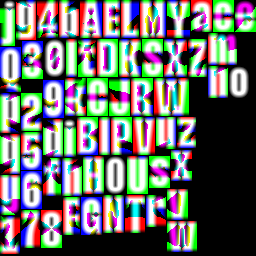
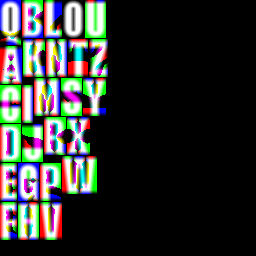
TextToMesh - MDSFont font rendered

diff --git a/utils/canvas.js b/utils/canvas.js
@@ -1,21 +1,9 @@
 import { gsap } from "gsap";
 import * as THREE from 'three';
-// import {THREE} from 'three';
+
 import { TextGeometry } from 'three/addons/geometries/TextGeometry.js';
 import { FontLoader } from 'three/addons/loaders/FontLoader.js';
 import { uniforms, MSDFTextGeometry, MSDFTextMaterial } from "three-msdf-text-utils";
-
-// import { FontLoader } from 'three/examples/jsm/loaders/FontLoader.js';
-// import {loadFont} from 'load-bmfont';
-
-// import { createGeometry } from 'three-bmfont-text';
-
-// import { createTextGeometry } from 'three-bmfont-text-es';
-// import * as loadFont from "load-bmfont";
-
-// import font from './font/helvetiker_regular.typeface.json';
-// import font from './font/PPFormula-CondensedBlack.json';
-// import fontTexture from './font/PPFormula-CondensedBlack.png';
 
 import Scroll from './scroll.js';
 
@@ -38,11 +26,8 @@ import example1Vertex from './shaders/example1Vertex.glsl';
 import example2Fragment from './shaders/example2Fragment.glsl';
 import example2Vertex from './shaders/example2Vertex.glsl';
 
-import MSDFfragment from './shaders/MSDFfragment.glsl';
-import MSDFvertex from './shaders/MSDFvertex.glsl';
-
-import { aniInExample } from "~/utils/animations";
-// import {uniforms} from "three-msdf-text-utils";
+import MSDFfragment from './shaders/MSDFfragment_test.glsl';
+import MSDFvertex from './shaders/MSDFvertex_test.glsl';
 
 const CanvasOptions = {
     scroll: {
@@ -254,18 +239,9 @@ let Canvas = {
 
     async addTextAsMSDF(_shader, _id, _htmlEl, _text){
 
-        console.log("_shader, _meshId, _htmlEl" , _shader, _id, _htmlEl);
-
-        let fragmentShader= this.options.default.textShader;
-        let vertexShader = this.options.default.textVertex;
-
         let bounds = _htmlEl.getBoundingClientRect();
         let position = { top : bounds.top , left: bounds.left};
         position.top += this.currentScroll;
-
-        //load font with fontloader
-        // const fontLoader = new FontLoader();
-        // const atlasLoader = new THREE.TextureLoader();
 
         //*****************************
         // MSDF
@@ -279,7 +255,6 @@ let Canvas = {
                 const loader = new THREE.TextureLoader();
                 loader.load(path, resolve);
             });
-
         }
 
         const loadFont = (path) => {
@@ -287,7 +262,6 @@ let Canvas = {
                 const loader = new FontLoader();
                 loader.load(path, resolve);
             });
-
         }
 
         Promise.all([
@@ -295,48 +269,39 @@ let Canvas = {
             loadFont(fontUrl),
         ]).then(([atlas, font]) => {
 
-            font.data[0].image.lineHeight = '100px'
-
-            console.log("atlas" , atlas)
-            console.log("font" , font)
-
             const geometry = new MSDFTextGeometry({
-                text: "hooo test",
+                text: _text.toUpperCase(),
                 font: font.data,
             });
 
-            const material = new MSDFTextMaterial();
-            material.uniforms.uMap.value = atlas;
+            const material = new THREE.ShaderMaterial({
+                side: THREE.DoubleSide,
+                transparent: true,
+                defines: {
+                    IS_SMALL: false,
+                },
+                extensions: {
+                    derivatives: true,
+                },
+                uniforms: {
+                    // Common
+                    ...uniforms.common,
+                    // Rendering
+                    ...uniforms.rendering,
+                    // Strokes
+                    ...uniforms.strokes,
+                },
+                vertexShader: MSDFvertex,
+                fragmentShader: MSDFfragment,
+            });
 
-            // const material = new THREE.ShaderMaterial({
-            //     // side: DoubleSide,
-            //     transparent: true,
-            //     defines: {
-            //         IS_SMALL: false,
-            //     },
-            //     extensions: {
-            //         derivatives: true,
-            //     },
-            //     uniforms: {
-            //         // Common
-            //         ...uniforms.common,
-            //
-            //         // Rendering
-            //         ...uniforms.rendering,
-            //
-            //         // Strokes
-            //         ...uniforms.strokes,
-            //     },
-            //     vertexShader: MSDFvertex,
-            //     fragmentShader: MSDFfragment,
-            // });
-            // material.uniforms.uMap.value = atlas;
+            material.uniforms.uMap.value = atlas;
 
             let mesh = new THREE.Mesh(geometry, material);
             mesh.name = "MSDFText";
-            this.scene.add(mesh)
+            mesh.scale.set(1, -1, 1);
 
-            console.log("this.scene" , this.scene   );
+            this.scene.add(mesh)
 
             const newMesh = {
                 name: _id,
@@ -344,17 +309,23 @@ let Canvas = {
                 mesh: mesh,
                 top: position.top,
                 left: position.left,
-                width: bounds.width * 2,
-                height: bounds.height * 2,
-                thumbOutAction: {value: 0},
+                width: bounds.width,
+                height: bounds.height,
             }
 
             this.imageStore.push(newMesh);
 
             this.setImageMeshPositions();
 
-            this.activateImage(_id, true)
+            // this.activateImage(_id, true)
             this.meshMouseListeners(newMesh, material);
+
+            let alphabet = '';
+            for (let i = 65; i <= 90; i++) {
+                alphabet += String.fromCharCode(i);
+            }
+
+            console.log('alphabet' , alphabet)
         });
 
         //*****************************
@@ -364,8 +335,6 @@ let Canvas = {
     },
 
     addTextAsMesh(_shader, _id, _htmlEl, _text){
-
-        console.log("_shader, _meshId, _htmlEl" , _shader, _id, _htmlEl);
 
         let fragmentShader= this.options.default.textShader;
         let vertexShader = this.options.default.textVertex;

diff --git a/components/canvas/Text.vue b/components/canvas/Text.vue
@@ -20,8 +20,8 @@ onMounted(async () => {
   let innerHTML = html.value?.innerHTML;
   //remove slot related characters in innerHTML string
   let text = innerHTML.replace('<!--]-->', '').replace('<!--[-->','');
-  Canvas.addTextAsMesh( props.shader, props.meshId, html.value, text )
-  // await Canvas.addTextAsMSDF( props.shader, props.meshId, html.value, text )
+  // Canvas.addTextAsMesh( props.shader, props.meshId, html.value, text )
+  await Canvas.addTextAsMSDF( props.shader, props.meshId, html.value, text )
 })
 
 watch(() => props.textHover, (_status) => {
@@ -35,6 +35,10 @@ onBeforeUnmount(() => {
 </script>
 
 <style lang="scss" scoped>
+
+span{
+  opacity: 0.1;
+}
 
 img {
 

diff --git a/pages/index.vue b/pages/index.vue
@@ -129,6 +129,9 @@ watch(
 
 <style lang="scss">
 
+.headline{
+  font-size: 120px;
+}
 
 .inline-example {
   vertical-align: top;
